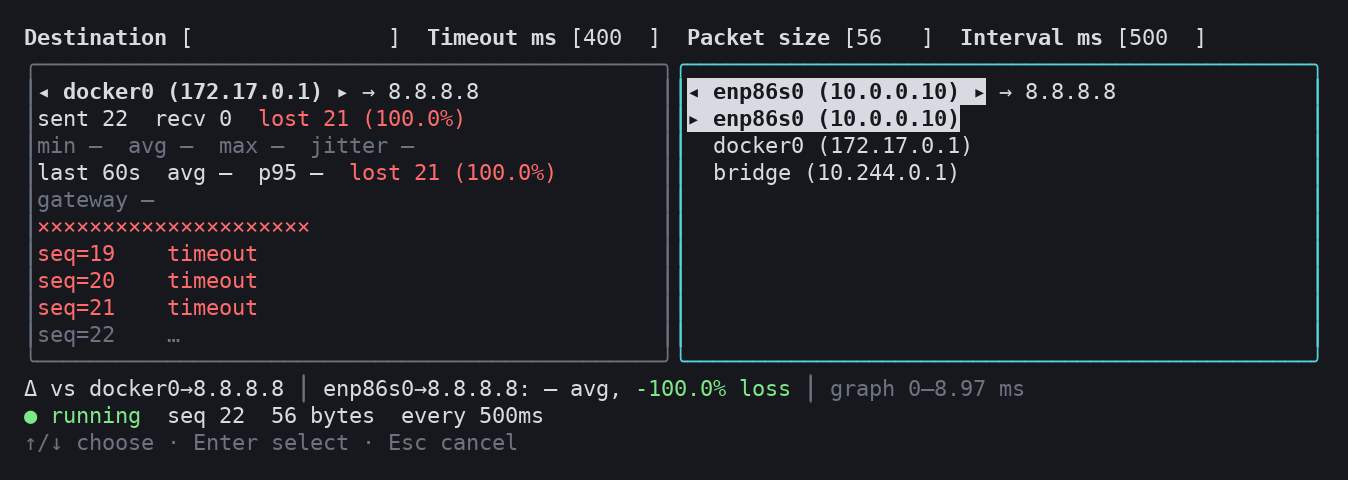
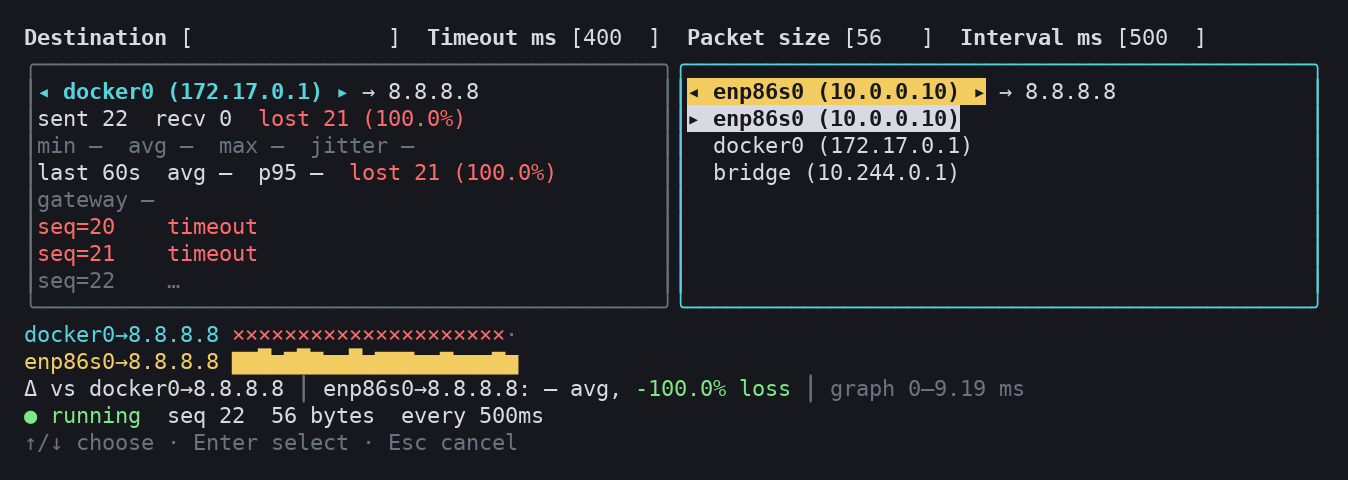
Merge the per-panel sparklines into one full-width graph
Each panel had its own sparkline, as wide as the panel and filled with
its latest finished probes, so the same moment sat in different columns
and the history shrank as panels were added.

Draw one line per panel under the panels instead, across the whole
terminal. A round of pings is in the same column on every line, all
lines share one scale, and each is drawn in the colour of its panel's
title. Pending probes and rounds a panel sat out are shown as such.
The graph is dropped when the terminal is too short for it.

diff --git a/tui.go b/tui.go
@@ -33,6 +33,9 @@ var maxRows = 100_000
 
 const maxPanels = 6
 
+// minBodyH is the least height of the panels: border, title and statistics.
+const minBodyH = 7
+
 // recentWindow is the span of the "last 60s" figures.
 const recentWindow = 60 * time.Second
 
@@ -50,6 +53,10 @@ var (
 	borderPlain = lipgloss.NewStyle().Border(lipgloss.RoundedBorder()).BorderForeground(lipgloss.Color("8"))
 	borderFocus = lipgloss.NewStyle().Border(lipgloss.RoundedBorder()).BorderForeground(lipgloss.Color("14"))
 )
+
+// panelColors tell the panels apart: each one's title and its line in the
+// graph share a colour. Red and grey are left out, they mean lost and idle.
+var panelColors = [maxPanels]lipgloss.Color{"14", "11", "13", "10", "12", "15"}
 
 type rowState int
 
@@ -160,36 +167,8 @@ func (s *series) window(now time.Time, d time.Duration) windowStats {
 	return w
 }
 
-// recent returns up to n of the latest answered or lost probes, newest first.
-func (s *series) recent(n int) []row {
-	var done []row
-	for i := len(s.rows) - 1; i >= 0 && len(done) < n; i-- {
-		if s.rows[i].state != rowPending {
-			done = append(done, s.rows[i])
-		}
-	}
-	return done
-}
-
-// sparkline draws the recent probes, one cell each, with top as full height.
-func (s *series) sparkline(width int, top time.Duration) string {
-	done := s.recent(width)
-	bars := []rune("▁▂▃▄▅▆▇█")
-	var b strings.Builder
-	for i := len(done) - 1; i >= 0; i-- {
-		r := done[i]
-		if r.state != rowOK {
-			b.WriteString(styleBad.Render("×"))
-			continue
-		}
-		level := 0
-		if top > 0 {
-			level = min(int(r.rtt*time.Duration(len(bars))/top), len(bars)-1)
-		}
-		b.WriteRune(bars[level])
-	}
-	return b.String()
-}
+// graphBars are the heights a delay can be drawn at, lowest first.
+var graphBars = []rune("▁▂▃▄▅▆▇█")
 
 // panel is one interface's column.
 type panel struct {
@@ -711,7 +690,7 @@ func (m *model) View() string {
 		help = []string{"type this panel's destination", "Enter confirm (empty = shared)", "Esc cancel"}
 	}
 	bottom := styleDim.Render(wrap(help, " · ", m.w))
-	bodyH := max(m.h-lipgloss.Height(top)-lipgloss.Height(bottom)-2, 8)
+	bodyH := max(m.h-lipgloss.Height(top)-lipgloss.Height(bottom)-2, minBodyH)
 	n := len(m.panels)
 	widths := make([]int, n)
 	for i := range widths {
@@ -719,23 +698,91 @@ func (m *model) View() string {
 	}
 	widths[n-1] = m.w - (m.w/n)*(n-1)
 
-	// One scale for every sparkline, so their heights are comparable.
+	graph, scale := m.viewGraph(m.w)
+	// The graph gives way to the panels when the terminal is too short for both.
+	if bodyH-len(graph) < minBodyH {
+		graph, scale = nil, 0
+	}
+	bodyH -= len(graph)
+	cols := make([]string, n)
+	for i := range m.panels {
+		cols[i] = m.viewPanel(i, widths[i], bodyH)
+	}
+	parts := append([]string{top, lipgloss.JoinHorizontal(lipgloss.Top, cols...)}, graph...)
+	parts = append(parts, clip(m.viewCompare(scale), m.w), clip(m.viewStatus(), m.w), bottom)
+	return lipgloss.JoinVertical(lipgloss.Left, parts...)
+}
+
+// viewGraph draws the recent rounds of every panel across the full width, one
+// line per panel and one cell per round. A round sits in the same column on
+// every line and all lines share one scale, so delay and loss on different
+// interfaces can be compared directly. It also returns the delay that is drawn
+// at full height.
+func (m *model) viewGraph(w int) ([]string, time.Duration) {
+	labelW, last := 0, 0
+	for _, p := range m.panels {
+		labelW = max(labelW, lipgloss.Width(m.panelName(p)))
+		if n := len(p.rows); n > 0 {
+			last = max(last, p.rows[n-1].seq)
+		}
+	}
+	labelW = min(labelW, w/3)
+	cells := max(w-labelW-1, 1)
+	// Fill from the left at first, then scroll with the newest round on the right.
+	first := max(last-cells+1, 1)
+
+	visible := make([][]row, len(m.panels))
 	var scale time.Duration
 	for i, p := range m.panels {
-		for _, r := range p.recent(max(widths[i]-2, 1)) {
+		at, _ := slices.BinarySearchFunc(p.rows, first, func(r row, seq int) int { return r.seq - seq })
+		rows := p.rows[at:]
+		visible[i] = rows
+		for _, r := range rows {
 			scale = max(scale, r.rtt)
 		}
 	}
-	cols := make([]string, n)
-	for i := range m.panels {
-		cols[i] = m.viewPanel(i, widths[i], bodyH, scale)
+
+	lines := make([]string, len(m.panels))
+	for i, p := range m.panels {
+		color := lipgloss.NewStyle().Foreground(panelColors[i])
+		var b strings.Builder
+		b.WriteString(color.Render(fmt.Sprintf("%-*s", labelW, clip(m.panelName(p), labelW))))
+		b.WriteByte(' ')
+		// Consecutive cells of one kind are styled together.
+		var run []rune
+		var runStyle lipgloss.Style
+		runState := rowPending
+		flush := func() {
+			if len(run) > 0 {
+				b.WriteString(runStyle.Render(string(run)))
+				run = run[:0]
+			}
+		}
+		col := first
+		for _, r := range visible[i] {
+			if r.seq > col || r.state != runState {
+				flush()
+			}
+			// Rounds this panel sat out stay empty.
+			b.WriteString(strings.Repeat(" ", r.seq-col))
+			col = r.seq + 1
+			switch runState = r.state; r.state {
+			case rowPending:
+				run, runStyle = append(run, '·'), styleDim
+			case rowOK:
+				level := 0
+				if scale > 0 {
+					level = min(int(r.rtt*time.Duration(len(graphBars))/scale), len(graphBars)-1)
+				}
+				run, runStyle = append(run, graphBars[level]), color
+			default:
+				run, runStyle = append(run, '×'), styleBad
+			}
+		}
+		flush()
+		lines[i] = clip(b.String(), w)
 	}
-	return lipgloss.JoinVertical(lipgloss.Left,
-		top,
-		lipgloss.JoinHorizontal(lipgloss.Top, cols...),
-		clip(m.viewCompare(scale), m.w),
-		clip(m.viewStatus(), m.w),
-		bottom)
+	return lines, scale
 }
 
 // wrap joins items with sep, breaking into lines no wider than w.
@@ -836,16 +883,16 @@ func ifaceLabel(ifc ping.Interface, v6 bool) string {
 	return fmt.Sprintf("%s (%s)", ifc.Name, addr)
 }
 
-func (m *model) viewPanel(i, w, h int, scale time.Duration) string {
+func (m *model) viewPanel(i, w, h int) string {
 	p := m.panels[i]
 	innerW, innerH := max(w-2, 1), max(h-2, 1)
 	focused := m.focus == numFields+i
 
 	title := "◂ " + ifaceLabel(p.ifc, m.v6(p)) + " ▸"
 	if focused {
-		title = styleFocus.Render(title)
+		title = styleFocus.Foreground(panelColors[i]).Render(title)
 	} else {
-		title = styleLabel.Render(title)
+		title = styleLabel.Foreground(panelColors[i]).Render(title)
 	}
 	if p.down {
 		title += styleBad.Render(" down")
@@ -869,7 +916,7 @@ func (m *model) viewPanel(i, w, h int, scale time.Duration) string {
 	if m.menu == i {
 		lines = append([]string{title}, m.viewMenu(innerH-1, m.v6(p))...)
 	} else {
-		lines = append([]string{title}, p.viewStats(m, innerW, scale)...)
+		lines = append([]string{title}, p.viewStats(m)...)
 		rows := p.rows
 		if logH := max(innerH-len(lines), 0); len(rows) > logH {
 			rows = rows[len(rows)-logH:]
@@ -900,7 +947,7 @@ func (m *model) viewPanel(i, w, h int, scale time.Duration) string {
 }
 
 // viewStats renders the fixed lines between a panel's title and its log.
-func (p *panel) viewStats(m *model, width int, scale time.Duration) []string {
+func (p *panel) viewStats(m *model) []string {
 	lost := func(n int, pct float64) string {
 		if n == 0 {
 			return "lost 0"
@@ -940,7 +987,7 @@ func (p *panel) viewStats(m *model, width int, scale time.Duration) []string {
 		gw = fmt.Sprintf("gateway %s  %s", p.ifc.Gateway, lost(g.lost, g.lossPct()))
 	}
 
-	return []string{counts, times, recent, gw, p.sparkline(width, scale)}
+	return []string{counts, times, recent, gw}
 }
 
 // viewMenu renders the open interface list, scrolled to keep the selection

diff --git a/tui_test.go b/tui_test.go
@@ -5,6 +5,7 @@ import (
 	"net"
 	"os"
 	"path/filepath"
+	"slices"
 	"strings"
 	"testing"
 	"time"
@@ -483,8 +484,12 @@ func TestViewFitsTerminal(t *testing.T) {
 			}
 			t.Log("\n" + view)
 			// Panel 1 is twice as slow, so only it may reach full height.
-			if strings.Contains(m.panels[0].sparkline(48, 96*time.Millisecond), "█") {
-				t.Error("faster panel drawn at full height on the shared scale")
+			graph, _ := m.viewGraph(size[0])
+			if strings.Contains(graph[0], "█") || !strings.Contains(graph[1], "█") {
+				t.Errorf("shared scale not applied:\n%s", strings.Join(graph, "\n"))
+			}
+			if !strings.Contains(view, graph[0]) || !strings.Contains(view, graph[1]) {
+				t.Error("view lacks the graph")
 			}
 			for _, want := range []string{"Δ vs eth0", "wlan0: +24.0 ms avg, +14.3% loss", "graph 0–96.0 ms", "last 60s  avg 49.0  p95 92.0 ms  lost 7 (14.3%)"} {
 				if !strings.Contains(view, want) {
@@ -492,5 +497,55 @@ func TestViewFitsTerminal(t *testing.T) {
 				}
 			}
 		}
+	}
+}
+
+func TestGraph(t *testing.T) {
+	m := testModel()
+	m.dst = net.IPv4(8, 8, 8, 8)
+	eth, wlan := m.panels[0], m.panels[1]
+	// wlan0 joins at round 3; round 4 is lost on it and round 6 still open.
+	for seq := 1; seq <= 6; seq++ {
+		eth.send(seq, time.Now())
+		eth.result(seq, 10*time.Millisecond, nil)
+		if seq < 3 {
+			continue
+		}
+		wlan.send(seq, time.Now())
+		switch seq {
+		case 4:
+			wlan.result(seq, 0, ping.ErrTimeout)
+		case 6:
+		default:
+			wlan.result(seq, 80*time.Millisecond, nil)
+		}
+	}
+	graph, scale := m.viewGraph(40)
+	if scale != 80*time.Millisecond {
+		t.Errorf("scale = %v, want 80ms", scale)
+	}
+	// Each round is in the same column on both lines.
+	if want := []string{"eth0  ▂▂▂▂▂▂", "wlan0   █×█·"}; !slices.Equal(graph, want) {
+		t.Errorf("graph = %q, want %q", graph, want)
+	}
+
+	// A narrow graph keeps the newest rounds, still aligned.
+	if graph, _ = m.viewGraph(9); !slices.Equal(graph, []string{"eth ▂▂▂▂▂", "wla  █×█·"}) {
+		t.Errorf("narrow graph = %q", graph)
+	}
+	for _, l := range graph {
+		if w := lipgloss.Width(l); w > 9 {
+			t.Errorf("line is %d cells wide: %q", w, l)
+		}
+	}
+
+	// A terminal too short for both keeps the panels and drops the graph.
+	m.Update(tea.WindowSizeMsg{Width: 100, Height: 12})
+	if view := m.View(); strings.Contains(view, "▂▂▂") || lipgloss.Height(view) > 12 {
+		t.Errorf("short view:\n%s", view)
+	}
+	m.Update(tea.WindowSizeMsg{Width: 100, Height: 30})
+	if view := m.View(); !strings.Contains(view, "wlan0   █×█·") {
+		t.Errorf("view lacks the graph:\n%s", view)
 	}
 }

diff --git a/README.md b/README.md
@@ -10,8 +10,8 @@ The Windows build compiles but has not been run yet; reports are welcome.
 ![Two panels pinging side by side](docs/main.png)
 
 Each panel pings through one interface. Here both use the same interface with
-different destinations; the line under the panels gives the difference from
-the leftmost panel.
+different destinations. The graph under the panels draws them on one scale,
+and the line below it gives the difference from the leftmost panel.
 
 ![Interface list open, next to an interface that loses every ping](docs/interfaces.png)
 
@@ -85,19 +85,36 @@ sent 50  recv 42  lost 7 (14.3%)                  all-time counts
 min 2.00  avg 49.0  max 96.0  jitter 2.29 ms      all-time round-trip times
 last 60s  avg 49.0  p95 92.0 ms  lost 7 (14.3%)   the last minute only
 gateway 192.168.1.1  avg 1.20  max 3.10 ms  lost 0
-▁▁▂×▂▃▃×▄▅▅▆×▇██                                  one cell per probe, × = lost
 seq=48    96.0 ms
 ```
 
 - The address after `→` in a panel's title is what that panel pings: the
   shared Destination unless the panel was given its own.
-- All sparklines share one scale, shown on the line under the panels.
-- The line under the panels compares every panel with the leftmost one.
+- The line under the graph compares every panel with the leftmost one.
 - The gateway line pings the interface's own IPv4 router at the same moments.
   A slow gateway points at the local link; a fast gateway with a slow
   destination points further upstream.
 - Interfaces are re-read every two seconds. A panel whose interface vanishes
   is marked `down`, counts its probes as lost and resumes when it returns.
+
+## Reading the graph
+
+```
+eth0  ▁▁▁▂▁▁▁▂▂▁▁▁▁▂▁▁▁▁▁·
+wlan0 ▃▃▄×▃▅▅×▄▅▅▆×▇██▆▅▅·
+Δ vs eth0 │ wlan0: +24.0 ms avg, +14.3% loss │ graph 0–96.0 ms
+```
+
+- One line per panel across the whole terminal, in the colour of that
+  panel's title. Each cell is one round of pings: the higher the bar, the
+  longer the reply took; `×` is a lost ping, `·` one still waiting.
+- A round is in the same column on every line, so loss or a spike that hits
+  all interfaces at once lines up vertically. A panel that sat a round out
+  (just added, or reset) leaves the cell empty.
+- All lines share one scale, from zero to the slowest reply on screen; the
+  line below names it.
+- The graph is left out when the terminal is too short to show it together
+  with the panels.
 
 ## Saved records
 
